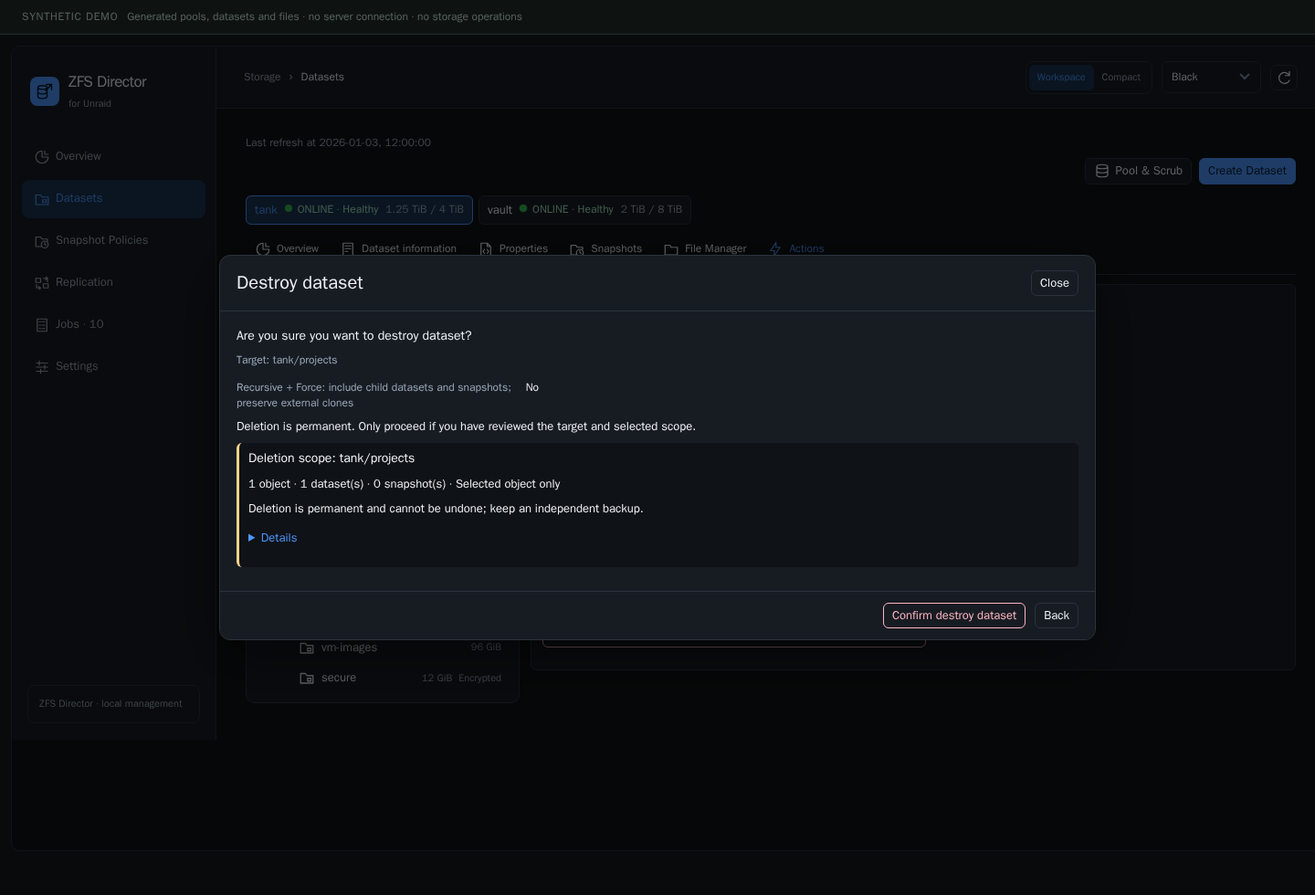
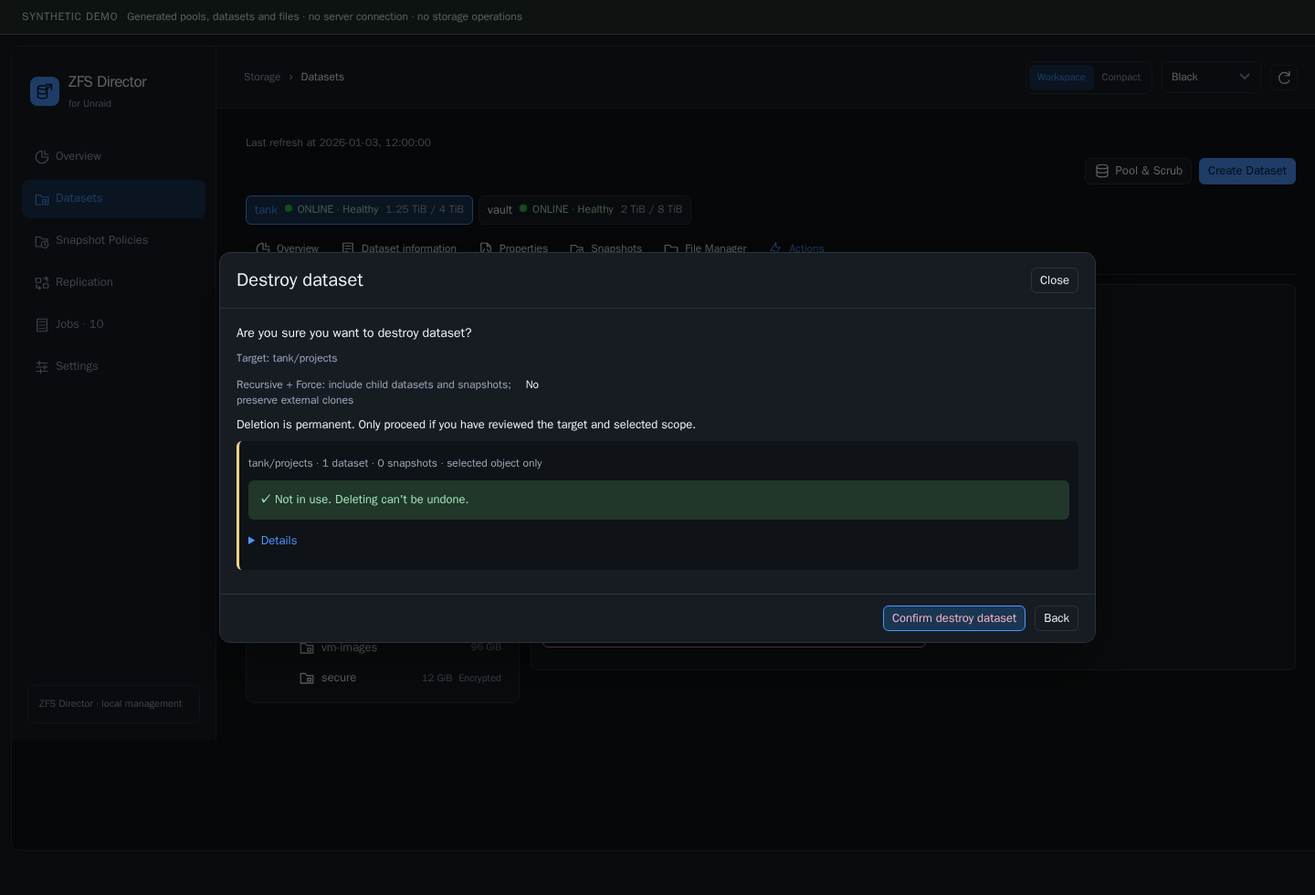
fix: one-line deletion verdict with the exact way to release a blocker (2026.11.07.2)
The deletion preview showed an SMB blocker next to "No blocking references
found in this scan", plus several standing hints, so it was unclear why
Delete stayed disabled.

- Show one verdict: who holds the dataset and where to release it (for
  example Shares, SMB Export: No), or "Not in use".
- While blocked, hide the confirmation and Delete; offer Check again.
- Drop the reassuring live-scan line and the standing Force note; objects,
  warnings and the raw dry run stay folded in Details.

Changed region(s): [[0.1875, 0.3673, 0.8125, 0.6122], [0.1875, 0.6735, 0.8125, 0.7347], [0.1875, 0.2755, 0.8125, 0.3367]]

diff --git a/src/frontend/ZFSMForms.js b/src/frontend/ZFSMForms.js
@@ -226,6 +226,17 @@
       state.policyIssue = blocked;
     }
     function acknowledgment(state, text) { checkbox(state, 'acknowledge', text || 'I understand this operation cannot be undone and confirm the target shown above.'); }
+    // A blocked deletion offers only a recheck; the confirmation controls return once it is free.
+    function showDestroyControls(state, free) {
+      const ack = state.fields.acknowledge?.closest('label'), submit = state.buttons?.querySelector('button[type="submit"]');
+      if (ack) ack.hidden = !free;
+      if (submit) submit.hidden = !free;
+      if (state.previewButton && state.buttons && state.modal) {
+        state.previewButton.textContent = 'Check again';
+        state.previewButton.hidden = free;
+        state.buttons.prepend(state.previewButton);
+      }
+    }
     function invalidatePreview(state) {
       clearConfirmation(state);
       state.preview = null;
@@ -233,6 +244,7 @@
       state.previewBusy = false;
       if (state.fields.acknowledge) state.fields.acknowledge.checked = false;
       if (state.previewBox) state.previewBox.replaceChildren(element('p', 'Load a fresh preview and review every listed object before confirming.'));
+      if (state.previewButton && state.previewButton.hidden) state.previewButton.hidden = false;
       enable(state);
     }
     function renderDestroyDiagnostics(host, diagnostics) {
@@ -245,32 +257,41 @@
         entry.textContent = row.dataset + ': ' + (reasons[row.kind] || row.kind) + ' · ' + row.mountpoint + ' · PID ' + row.pid + ' (' + row.command + ') · ' + row.namespace + (row.container ? ' · Container ' + (row.container_name ? row.container_name + ' (' + row.container.slice(0,12) + ')' : row.container.slice(0,12)) : '');
         panel.append(entry);
       }
-      if (diagnostics.blocked) panel.append(element('p', 'Release the reported application references or mounts through their owner, then load a fresh preview. No process is stopped and no mount is forcibly detached by this dialog.'));
-      else panel.append(element('p', 'No blocking references found in this scan. References can change; a dry run cannot guarantee execution.'));
+      if (diagnostics.blocked) panel.append(element('p', 'Force can\'t release busy mounts held by another Linux namespace. Stop these processes or unmount through their owner, then press Check again.'));
       for (const warning of diagnostics.warnings || []) panel.append(element('p', warning, 'zfsm-muted'));
       host.append(panel);
     }
     function renderDestroySummary(host, answer) {
       const summary = element('section', undefined, 'zfsm-destroy-summary');
-      summary.append(element('h4', 'Deletion scope: ' + answer.target));
       const objects = Array.isArray(answer.objects) ? answer.objects : null;
       const dependencies = Array.isArray(answer.dependencies) ? answer.dependencies : null;
       const typed = objects && objects.every(row => ['filesystem', 'volume', 'snapshot'].includes(row?.type));
       const datasets = typed ? objects.filter(row => row.type !== 'snapshot').length : null;
       const snapshots = typed ? objects.length - datasets : null;
-      summary.append(element('p', (objects
-        ? objects.length + ' object' + (objects.length === 1 ? '' : 's') + (typed ? ' · ' + datasets + ' dataset(s) · ' + snapshots + ' snapshot(s)' : ' · Object types: Unknown')
-        : 'Affected object count: Unknown') + ' · ' + (typeof answer.recursive === 'boolean' ? answer.recursive ? 'Recursive descendants included' : 'Selected object only' : 'Scope unknown — review raw dry-run output')));
-      // Problems stay visible; routine evidence is folded into Details.
+      const count = (n, word) => n + ' ' + word + (n === 1 ? '' : 's');
+      summary.append(element('p', answer.target + ' · ' + (typed ? count(datasets, 'dataset') + ' · ' + count(snapshots, 'snapshot') : objects ? count(objects.length, 'object') : 'object count unknown') + ' · ' + (typeof answer.recursive === 'boolean' ? answer.recursive ? 'recursive' : 'selected object only' : 'scope unknown'), 'zfsm-muted'));
       const services = Array.isArray(answer.service_blockers) ? answer.service_blockers : [];
       const busy = answer.diagnostics?.blocked === true;
+      // One verdict box: what holds the dataset and where to release it, or that it is free.
+      const verdict = element('section', undefined, answer.can_destroy === true ? 'zfsm-destroy-verdict zfsm-destroy-ok' : 'zfsm-destroy-verdict zfsm-destroy-services');
+      if (answer.can_destroy === true) verdict.append(element('p', '✓ Not in use. Deleting can\'t be undone.', 'zfsm-success'));
+      const names = {smb:'SMB share',nfs:'NFS export',docker:'Docker container',vm:'VM',additional_mount:'Additional mount',nested_mount:'Nested mount'};
+      const fixes = {smb:row => 'Open Shares → ' + row.name + ', set SMB Export to No', nfs:() => 'Open Shares and set NFS Export to No', docker:row => 'Stop Docker container "' + row.name + '" or remove this path from it', vm:row => 'Remove this disk from VM "' + row.name + '"', additional_mount:row => 'Unmount ' + row.path, nested_mount:row => 'Unmount ' + row.path};
+      for (const row of services) {
+        const named = row?.name && !['nfs','additional_mount','nested_mount'].includes(row.kind);
+        const who = (names[row?.kind] || 'Service reference') + (named ? ' "' + row.name + '"' : '');
+        const fix = fixes[row?.kind] && (named || !['smb','docker','vm'].includes(row.kind)) ? fixes[row.kind](row) : 'Release it through its owner';
+        verdict.append(element('p', '⛔ Can\'t delete: ' + who + ' uses ' + (row?.path || 'this dataset'), 'zfsm-error'), element('p', fix + ', then press Check again.', 'zfsm-error'));
+      }
+      if (busy) renderDestroyDiagnostics(verdict, answer.diagnostics);
+      if (answer.can_destroy !== true && !services.length && !busy) verdict.append(element('p', '⛔ Can\'t delete: ' + (dependencies && dependencies.length ? 'clones outside this scope depend on it' : 'ZFS did not approve this scope (holds or a failed dry run)') + '. See Details.', 'zfsm-error'));
+      summary.append(verdict);
       const details = element('details', undefined, 'zfsm-destroy-details');
       details.append(element('summary', 'Details'));
       function table(title, rows) {
-        if (rows && !rows.length && title !== 'Objects affected by deletion') return;
+        if (rows && !rows.length) return;
         details.append(element('strong', title));
         if (!rows) { details.append(element('p', 'Unknown — this preview did not report this information.', 'zfsm-muted')); return; }
-        if (!rows.length) { details.append(element('p', 'None reported.')); return; }
         const wrap = element('div', undefined, 'zfsm-table-wrap'), table = element('table', undefined, 'zfsm-table zfsm-readable-table');
         const head = element('thead'), headings = element('tr'), body = element('tbody');
         const columns = [['Object', 'name'], ['Type', 'type'], ['GUID', 'guid'], ['Mountpoint', 'mountpoint'], ['Encryption root', 'encryptionroot'], ['Origin', 'origin'], ['Holds', 'holds']];
@@ -289,23 +310,10 @@
         }
         table.append(head, body); wrap.append(table); details.append(wrap);
       }
-      if (services.length) {
-        const panel = element('section', undefined, 'zfsm-destroy-services');
-        panel.append(element('strong', 'Used by services'));
-        const names = {smb:'SMB share',nfs:'NFS export',docker:'Docker container',vm:'VM',additional_mount:'Additional mount',nested_mount:'Nested mount'};
-        for (const row of services) panel.append(element('p', (names[row?.kind] || 'Service reference') + (row?.name && !['nfs','additional_mount','nested_mount'].includes(row.kind) ? ' "' + row.name + '"' : '') + ' · ' + (row?.path || 'Unknown path'), 'zfsm-error'));
-        panel.append(element('p', 'Remove or stop these references through their owner (Shares, Docker or VMs), then load a fresh preview. Nothing was stopped or changed.'));
-        summary.append(panel);
-      }
-      if (busy) renderDestroyDiagnostics(summary, answer.diagnostics);
-      if (dependencies && dependencies.length) table('Clone dependencies — these can be outside the selected branch', dependencies);
-      if (answer.can_destroy !== true && !services.length && !busy) summary.append(element('p', 'Deletion blocked. The backend has not approved this scope; inspect dependencies, holds and the raw preview in Details.', 'zfsm-error'));
-      summary.append(element('p', 'Deletion is permanent and cannot be undone; keep an independent backup.', 'zfsm-danger'));
       table('Objects affected by deletion', objects);
-      if (!dependencies) table('Clone dependencies — these can be outside the selected branch', dependencies);
-      if (!busy) renderDestroyDiagnostics(details, answer.diagnostics);
+      table('Clone dependencies — these can be outside the selected branch', dependencies);
+      if (!busy && answer.diagnostics?.warnings?.length) renderDestroyDiagnostics(details, answer.diagnostics);
       details.append(element('strong', 'Raw ZFS dry-run'), element('pre', answer.preview || 'No usable preview'));
-      if (answer.can_destroy !== true) details.open = true;
       summary.append(details);
       host.append(summary);
     }
@@ -367,7 +375,8 @@
           renderDestroySummary(state.previewBox, answer);
         }
         state.preview = { token: answer.token, preview_id:answer.preview_id, choice, canProceed:canProceed&&(rollback||answer.can_destroy===true) };
-        note(state, 'Review the fresh server preview, then acknowledge to enable submission.', false);
+        state.result.textContent = ''; state.result.className = '';
+        if (['destroydataset','destroysnapshot'].includes(state.action)) showDestroyControls(state, state.preview.canProceed);
       } catch (error) {
         if (!current(state) || previewGeneration !== state.previewGeneration) return;
         state.preview = null;
@@ -413,7 +422,7 @@
       state.previewBox = element('section', undefined, 'zfsm-preview');
       state.previewBox.setAttribute('aria-label', 'Exact server preview');
       state.grid.append(state.previewBox);
-      acknowledgment(state, 'I reviewed the exact preview above and confirm this irreversible operation.');
+      acknowledgment(state, state.action === 'destroydataset' ? 'Delete ' + state.context.dataset + ' permanently' : 'I reviewed the exact preview above and confirm this irreversible operation.');
       invalidatePreview(state);
     }
     function createFields(state) {
@@ -631,8 +640,7 @@
           field(state, 'newname', 'New full dataset name', ctx.dataset, null, { required: true, maxLength: 768 });
           checkbox(state, 'force', 'Force unmount filesystems that must be unmounted during rename'); break;
         case 'destroydataset':
-          withPreview(state, 'force', 'Recursive + Force: include child datasets and snapshots; preserve external clones');
-          state.grid.append(element('p', 'Linux: Force (-f) cannot release busy filesystems or mounts held by another namespace. It does not stop processes, remove holds or destroy external clones.', 'zfsm-notice')); break;
+          withPreview(state, 'force', 'Recursive + Force: include child datasets and snapshots; preserve external clones'); break;
         case 'unlockdataset': if(ctx.node.keystatus==='available')state.grid.append(element('p','Key already loaded. Restore only saved mount GUIDs; changed identities remain blocked.'));else field(state, 'passphrase', 'Dataset passphrase', '', null, { type: 'password', required: true });state.grid.append(element('p','Only previously mounted filesystems recorded by Director are restored. Without a saved mount journal, only the key is loaded.','zfsm-notice'));break;
         case 'lockdataset': {const affected=[];function walk(n){if(n.encryptionroot===ctx.dataset)affected.push(n.name+' — mounted: '+(n.mounted||'unknown'));for(const child of Object.values(n.child||{}))walk(child);}walk(ctx.node);state.grid.append(element('p','Encryption root: '+ctx.dataset+'; dependent filesystems become inaccessible. Shares, Docker and VM usage are not verified.','zfsm-danger'));const list=element('ul');for(const text of affected)list.append(element('li',text));state.grid.append(list);acknowledgment(state, 'I confirm unmounting this encryption root and unloading its key.');break;}
         case 'promotedataset': reviewedControls(state); break;
@@ -978,7 +986,7 @@
         const buttons = element('div', undefined, 'zfsm-buttons');
         state.buttons = buttons;
         if(action!=='editdatasetproperty'){
-          const submit = element('button',state.modal?'Review':titles[action] === 'Settings' ? 'Save settings' : titles[action]); submit.type = 'submit';
+          const submit = element('button',state.modal?(action==='destroydataset'?'Delete':'Review'):titles[action] === 'Settings' ? 'Save settings' : titles[action]); submit.type = 'submit';
           if (destructive.has(action)) submit.className = 'zfsm-danger';buttons.append(submit);
         }
         if(state.modal){buttons.classList.add('zfsm-action-footer');const close=element('button','Close');close.type='button';close.dataset.closeAction='';close.addEventListener('click',()=>{if(current(state))onClose();});buttons.append(close);}

diff --git a/src/frontend/ZFSMWorkspace.css b/src/frontend/ZFSMWorkspace.css
@@ -120,6 +120,10 @@
 #zfsm-workspace .zfsm-result-heading {display:block;margin-bottom:4px}
 #zfsm-workspace .zfsm-result-icon {margin-right:6px}
 #zfsm-workspace .zfsm-error,#zfsm-workspace .zfsm-notice[data-severity="error"] {background:var(--zfsm-error-bg);color:var(--zfsm-error)}
+#zfsm-workspace .zfsm-destroy-verdict {margin:10px 0;padding:10px 12px;border-radius:6px;background:var(--zfsm-error-bg);color:var(--zfsm-error)}
+#zfsm-workspace .zfsm-destroy-verdict.zfsm-destroy-ok {background:var(--zfsm-good-bg);color:var(--zfsm-good)}
+#zfsm-workspace .zfsm-destroy-verdict p {margin:2px 0;padding:0;background:none;color:inherit}
+#zfsm-workspace .zfsm-destroy-verdict p:first-child {font-weight:600}
 #zfsm-workspace .zfsm-preview {border-left:3px solid var(--zfsm-warning)}
 #zfsm-workspace .zfsm-form {margin:0;min-width:0;padding:0;color:var(--zfsm-text);container-type:inline-size}
 #zfsm-workspace .zfsm-form:not(.zfsm-create-form) {max-width:1040px}

diff --git a/tests/installer.test.py b/tests/installer.test.py
@@ -44,7 +44,7 @@ class InstallerTests(unittest.TestCase):
     def removal_fixture(self, anchor):
         output = anchor / 'build'
         subprocess.run(['python3', str(ROOT / 'tools/build-installer.py'), '--output', str(output),
-                        '--release-base-url', 'https://example.invalid/releases/2026.11.07.1'],
+                        '--release-base-url', 'https://example.invalid/releases/2026.11.07.2'],
                        cwd=ROOT, check=True, capture_output=True)
         (anchor / 'live/scripts').mkdir(parents=True)
         (anchor / 'live/scripts/zfsm-worker.php').write_text('synthetic worker boundary')
@@ -156,12 +156,12 @@ class InstallerTests(unittest.TestCase):
         with tempfile.TemporaryDirectory(dir=STAND_TMP) as tmp:
             output = pathlib.Path(tmp) / 'build'
             subprocess.run(['python3', str(ROOT / 'tools/build-installer.py'), '--output', str(output),
-                            '--release-base-url', 'https://example.invalid/releases/2026.11.07.1'],
+                            '--release-base-url', 'https://example.invalid/releases/2026.11.07.2'],
                            cwd=ROOT, check=True, capture_output=True)
             self.assertTrue((output / 'zfs-director.plg').is_file(), 'The public plugin URL must use ZFS Director branding')
-            with zipfile.ZipFile(output / 'ZFS-Director-2026.11.07.1-Unraid.zip') as bundle:
+            with zipfile.ZipFile(output / 'ZFS-Director-2026.11.07.2-Unraid.zip') as bundle:
                 guide = bundle.read('INSTALL.txt').decode()
-                self.assertIn('https://example.invalid/releases/2026.11.07.1/zfs-director.plg', guide)
+                self.assertIn('https://example.invalid/releases/2026.11.07.2/zfs-director.plg', guide)
                 self.assertNotIn('explicit acceptance', guide)
                 self.assertNotIn('Copy its TWO files', guide)
                 self.assertNotIn('/boot/config/plugins/zfs.master.ui/', guide)
@@ -229,17 +229,17 @@ class InstallerTests(unittest.TestCase):
                 output = pathlib.Path(folder) / 'build'
                 args = ['python3', str(ROOT / 'tools/build-installer.py'), '--output', str(output)]
                 if public:
-                    args += ['--release-base-url', 'https://example.invalid/releases/2026.11.07.1']
+                    args += ['--release-base-url', 'https://example.invalid/releases/2026.11.07.2']
                 subprocess.run(args, cwd=ROOT, check=True, capture_output=True)
                 plugin_name = 'zfs-director.plg' if public else 'zfs.master.ui.local.plg'
-                bundle = output / 'ZFS-Director-2026.11.07.1-Unraid.zip'
+                bundle = output / 'ZFS-Director-2026.11.07.2-Unraid.zip'
                 self.assertTrue(bundle.is_file(), 'Users need a ready manual-install ZIP')
                 with zipfile.ZipFile(bundle) as archive:
                     self.assertIsNone(archive.testzip())
                     names = set(archive.namelist())
                     expected = {'INSTALL.txt', 'INSTALL.ru.txt', 'INSTALLATION.md', 'SHA256SUMS',
                                 'zfs-director/' + plugin_name,
-                                'zfs-director/zfs-director-2026.11.07.1.tgz'}
+                                'zfs-director/zfs-director-2026.11.07.2.tgz'}
                     if public:
                         expected.update(['legacy-local/zfs.master.ui.local.plg', 'legacy-public/zfs.master.ui.plg'])
                     self.assertEqual(names, expected, 'Bundle must not contain source, settings or Jobs')
@@ -252,14 +252,14 @@ class InstallerTests(unittest.TestCase):
                         digest, name = line.split('  ', 1)
                         self.assertEqual(digest, hashlib.sha256(archive.read(name)).hexdigest())
                     self.assertEqual(len(archive.read('SHA256SUMS').splitlines()), len(expected) - 1)
-                    for name in (plugin_name, 'zfs-director-2026.11.07.1.tgz'):
+                    for name in (plugin_name, 'zfs-director-2026.11.07.2.tgz'):
                         self.assertEqual(archive.read('zfs-director/' + name), (output / name).read_bytes())
                     for name in ('INSTALL.txt', 'INSTALL.ru.txt'):
                         guide = archive.read(name).decode()
                         self.assertIn('Plugins', guide)
                         self.assertIn('Install Plugin', guide)
                         self.assertNotIn('manual activation is required', guide)
-                        if public: self.assertIn('https://example.invalid/releases/2026.11.07.1/zfs-director.plg', guide)
+                        if public: self.assertIn('https://example.invalid/releases/2026.11.07.2/zfs-director.plg', guide)
                         self.assertNotRegex(guide, r'(?im)^\s*(?:npm |npx |python3 |git clone)')
                     # Reproduce only the documented file handoff in a private stand.
                     # No installation code is executed and no host path is used.
@@ -283,7 +283,7 @@ class InstallerTests(unittest.TestCase):
         with tempfile.TemporaryDirectory(dir=STAND_TMP) as folder:
             root = pathlib.Path(folder)
             out = root / 'build'
-            subprocess.run(['python3', str(ROOT / 'tools/build-installer.py'), '--output', str(out), '--release-base-url', 'https://example.invalid/releases/2026.11.07.1'], check=True, capture_output=True)
+            subprocess.run(['python3', str(ROOT / 'tools/build-installer.py'), '--output', str(out), '--release-base-url', 'https://example.invalid/releases/2026.11.07.2'], check=True, capture_output=True)
             first = ET.parse(out / 'zfs-director.plg').findall('FILE')[0]
             self.assertNotIn('Name', first.attrib)
             gate = first.findtext('INLINE')
@@ -316,7 +316,7 @@ class InstallerTests(unittest.TestCase):
     def test_stable_plugin_url_base_drives_update_checks_but_not_package_pinning(self):
         # A tag-pinned pluginURL makes Plugin Manager poll the same release forever.
         builder = ROOT / 'tools/build-installer.py'
-        base = 'https://example.invalid/releases/2026.11.07.1'
+        base = 'https://example.invalid/releases/2026.11.07.2'
         stable = 'https://example.invalid/stable/main'
         with tempfile.TemporaryDirectory(dir=STAND_TMP) as tmp:
             out = pathlib.Path(tmp) / 'build'
@@ -325,7 +325,7 @@ class InstallerTests(unittest.TestCase):
             for name in ['zfs-director.plg', 'zfs.master.ui.plg', 'zfs.master.ui.local.plg']:
                 plugin = ET.parse(out / name).getroot()
                 self.assertEqual(plugin.attrib['pluginURL'], stable + '/' + name)
-                self.assertEqual(plugin.findtext('FILE[@Name]/URL'), base + '/zfs-director-2026.11.07.1.tgz')
+                self.assertEqual(plugin.findtext('FILE[@Name]/URL'), base + '/zfs-director-2026.11.07.2.tgz')
             result = subprocess.run(['python3', str(builder), '--output', str(pathlib.Path(tmp) / 'local'),
                                      '--plugin-url-base', stable], cwd=ROOT, capture_output=True, text=True)
             self.assertEqual(result.returncode, 2)
@@ -335,9 +335,9 @@ class InstallerTests(unittest.TestCase):
         with tempfile.TemporaryDirectory(dir=STAND_TMP) as tmp:
             out = pathlib.Path(tmp) / 'build'
             subprocess.run(['python3', str(ROOT / 'tools/build-installer.py'), '--output', str(out),
-                            '--release-base-url', 'https://example.invalid/releases/2026.11.07.1'],
+                            '--release-base-url', 'https://example.invalid/releases/2026.11.07.2'],
                            cwd=ROOT, check=True, capture_output=True)
-            with zipfile.ZipFile(out / 'ZFS-Director-2026.11.07.1-Unraid.zip') as zipped:
+            with zipfile.ZipFile(out / 'ZFS-Director-2026.11.07.2-Unraid.zip') as zipped:
                 self.assertIn('legacy-local/zfs.master.ui.local.plg', zipped.namelist(), 'The public ZIP must provide an upgrade for existing .local registrations')
                 legacy = ET.fromstring(zipped.read('legacy-local/zfs.master.ui.local.plg'))
                 public = ET.fromstring(zipped.read('zfs-director/zfs-director.plg'))
@@ -427,7 +427,7 @@ class InstallerTests(unittest.TestCase):
         # A missing/wrong URL, an unpinned package or nondeterministic build
         # must fail before these artifacts are offered to a plugin manager.
         builder = ROOT / 'tools/build-installer.py'
-        base = 'https://downloads.example.invalid/zfs-director/2026.11.07.1'
+        base = 'https://downloads.example.invalid/zfs-director/2026.11.07.2'
         with tempfile.TemporaryDirectory(dir=STAND_TMP) as tmp:
             outputs = [pathlib.Path(tmp) / name for name in ['first', 'second']]
             for output in outputs:
@@ -436,7 +436,7 @@ class InstallerTests(unittest.TestCase):
                 self.assertEqual(result.returncode, 0, result.stderr)
             first, second = outputs
             self.assertEqual(sorted(p.name for p in first.iterdir()),
-                             ['SHA256SUMS', 'ZFS-Director-2026.11.07.1-Unraid.zip', 'install.sh', 'zfs-director-2026.11.07.1.tgz', 'zfs-director.plg', 'zfs.master.ui.local.plg', 'zfs.master.ui.plg'])
+                             ['SHA256SUMS', 'ZFS-Director-2026.11.07.2-Unraid.zip', 'install.sh', 'zfs-director-2026.11.07.2.tgz', 'zfs-director.plg', 'zfs.master.ui.local.plg', 'zfs.master.ui.plg'])
             for path in first.iterdir():
                 self.assertEqual(path.read_bytes(), (second / path.name).read_bytes(), path.name)
             for line in (first / 'SHA256SUMS').read_text().splitlines():
@@ -444,12 +444,12 @@ class InstallerTests(unittest.TestCase):
                 self.assertEqual(digest, hashlib.sha256((first / name).read_bytes()).hexdigest())
             plugin = ET.parse(first / 'zfs-director.plg').getroot()
             self.assertEqual(plugin.attrib['pluginURL'], base + '/zfs-director.plg')
-            self.assertEqual(plugin.attrib['version'], '2026.11.07.1')
+            self.assertEqual(plugin.attrib['version'], '2026.11.07.2')
             package = plugin.find('FILE[@Name]')
-            self.assertEqual(package.attrib['Name'], '/boot/config/plugins/zfs.master.ui/zfs-director-2026.11.07.1.tgz')
-            self.assertEqual(package.findtext('URL'), base + '/zfs-director-2026.11.07.1.tgz')
+            self.assertEqual(package.attrib['Name'], '/boot/config/plugins/zfs.master.ui/zfs-director-2026.11.07.2.tgz')
+            self.assertEqual(package.findtext('URL'), base + '/zfs-director-2026.11.07.2.tgz')
             self.assertIsNone(package.find('LOCAL'))
-            archive = first / 'zfs-director-2026.11.07.1.tgz'
+            archive = first / 'zfs-director-2026.11.07.2.tgz'
             self.assertEqual(package.findtext('MD5'), hashlib.md5(archive.read_bytes()).hexdigest())
             with tarfile.open(archive) as tar:
                 release = json.load(tar.extractfile('zfs.master.ui/release.json'))

diff --git a/tools/build-installer.py b/tools/build-installer.py
@@ -17,7 +17,7 @@ import zipfile
 from urllib.parse import urlsplit
 
 ROOT = pathlib.Path(__file__).resolve().parents[1]
-VERSION = '2026.11.07.1'
+VERSION = '2026.11.07.2'
 STOP_MARKER = r'''use strict;
 use warnings;
 use Fcntl qw(:DEFAULT :mode);
@@ -184,7 +184,7 @@ def build(output, release_base=None, plugin_url_base=None):
     plugin_url = update_base + '/' + plugin_name if release_base else 'file:///boot/config/plugins/zfs.master.ui/' + plugin_name
     plugin = ET.Element('PLUGIN', name='zfs.master.ui', author='d1-m4ss', version=VERSION, min='7.3.3',
                         icon='database', launch='Main/ZFSDirector', pluginURL=plugin_url)
-    ET.SubElement(plugin, 'CHANGES').text = f'### {VERSION}\nFix: a blocked deletion now names the SMB share, NFS export, Docker container, VM or mount that holds the dataset, and the deletion preview shows these references before confirmation. The preview is compact when nothing blocks it; full evidence stays under Details.\n\nZFS Director: based on ZFS Master by Carlos Rodriguez (IkerSaint). GPL-2.0-or-later. Settings and recovery state retain their namespace. Background services start automatically after successful validation. Uninstall stops Director services and preserves settings, Jobs and recovery data.'
+    ET.SubElement(plugin, 'CHANGES').text = f'### {VERSION}\nDeletion preview shows one verdict: what holds the dataset and how to release it (for example Shares, SMB Export: No), or that it is not in use. Confirmation appears only when the dataset is free; full evidence stays under Details.\n\nZFS Director: based on ZFS Master by Carlos Rodriguez (IkerSaint). GPL-2.0-or-later. Settings and recovery state retain their namespace. Background services start automatically after successful validation. Uninstall stops Director services and preserves settings, Jobs and recovery data.'
     package = ET.SubElement(plugin, 'FILE', Name=f'/boot/config/plugins/zfs.master.ui/{archive.name}')
     ET.SubElement(package, 'URL' if release_base else 'LOCAL').text = release_base + '/' + archive.name if release_base else package.attrib['Name']
     ET.SubElement(package, 'MD5').text = hashlib.md5(archive.read_bytes()).hexdigest()

diff --git a/README.ru.md b/README.ru.md
@@ -8,7 +8,7 @@
 - **[Интеграция Sanoid](#политики-sanoid):** задайте время создания snapshots, хранение и безопасное удаление старых копий; просматривайте External и Managed policies.
 - **[Интеграция Syncoid](#репликация-syncoid):** настройте локальную или SSH-репликацию через Source → Destination → Schedule → Review; progress и проверенный результат доступны в Jobs.
 
-**[Скачать установочный ZIP для Unraid](https://github.com/d1-m4ss/zfs-director/releases/download/2026.11.07.1/ZFS-Director-2026.11.07.1-Unraid.zip)** · [SHA256SUMS](https://github.com/d1-m4ss/zfs-director/releases/download/2026.11.07.1/SHA256SUMS) · [Установка и rollback](docs/INSTALLATION.md)
+**[Скачать установочный ZIP для Unraid](https://github.com/d1-m4ss/zfs-director/releases/download/2026.11.07.2/ZFS-Director-2026.11.07.2-Unraid.zip)** · [SHA256SUMS](https://github.com/d1-m4ss/zfs-director/releases/download/2026.11.07.2/SHA256SUMS) · [Установка и rollback](docs/INSTALLATION.md)
 
 **Версия 2026.10.22.1** проверена на физическом сервере Unraid 7.3.3 с OpenZFS 2.4.4 и в изолированной VM. Установка, обновления, ZFS-операции и GUI описаны в [результатах проверки](docs/TESTING.md#rc1-verification-2026-10-22).
 
@@ -45,7 +45,7 @@ https://raw.githubusercontent.com/d1-m4ss/zfs-director/main/plugin/zfs-director.
 
 Новые версии появляются в **Plugins → Check for Updates** и в Community Applications. Ставили плагин по старому URL релиза (`…/releases/download/…/zfs-director.plg`)? Один раз переустановите его по URL выше с **Force Install**, чтобы проверка обновлений видела новые релизы.
 
-Также доступны [ZIP и контрольные суммы](https://github.com/d1-m4ss/zfs-director/releases/tag/2026.11.07.1). Подробнее — в [инструкции установки, обновления и rollback](docs/INSTALLATION.md).
+Также доступны [ZIP и контрольные суммы](https://github.com/d1-m4ss/zfs-director/releases/tag/2026.11.07.2). Подробнее — в [инструкции установки, обновления и rollback](docs/INSTALLATION.md).
 
 ## Snapshot File Manager
 

diff --git a/README.md b/README.md
@@ -8,7 +8,7 @@ Manage ZFS in Unraid, browse snapshots in a **Snapshot File Manager**, automate 
 - **[Sanoid integration](#sanoid-snapshot-policies):** choose snapshot creation times, retention and protected removal of old snapshots; review External and Managed policies.
 - **[Syncoid integration](#syncoid-replication):** create local or SSH replication jobs through Source → Destination → Schedule → Review, with progress and verified results in Jobs.
 
-**[Download the Unraid installation ZIP](https://github.com/d1-m4ss/zfs-director/releases/download/2026.11.07.1/ZFS-Director-2026.11.07.1-Unraid.zip)** · [SHA256SUMS](https://github.com/d1-m4ss/zfs-director/releases/download/2026.11.07.1/SHA256SUMS) · [Installation and rollback](docs/INSTALLATION.md)
+**[Download the Unraid installation ZIP](https://github.com/d1-m4ss/zfs-director/releases/download/2026.11.07.2/ZFS-Director-2026.11.07.2-Unraid.zip)** · [SHA256SUMS](https://github.com/d1-m4ss/zfs-director/releases/download/2026.11.07.2/SHA256SUMS) · [Installation and rollback](docs/INSTALLATION.md)
 
 **Version 2026.10.22.1** was tested on a physical Unraid 7.3.3 server with OpenZFS 2.4.4 and in an isolated VM. See the [verification results](docs/TESTING.md#rc1-verification-2026-10-22) for installation, upgrades, ZFS operations and GUI checks.
 
@@ -45,7 +45,7 @@ The installer downloads and verifies the ready-made package, creates its own sto
 
 New versions appear in **Plugins → Check for Updates** and in Community Applications. Installed from an older release URL (`…/releases/download/…/zfs-director.plg`)? Reinstall once from the URL above with **Force Install** so update checks follow new releases.
 
-The [ZIP and checksums](https://github.com/d1-m4ss/zfs-director/releases/tag/2026.11.07.1) are also available. See [installation, upgrades and rollback](docs/INSTALLATION.md).
+The [ZIP and checksums](https://github.com/d1-m4ss/zfs-director/releases/tag/2026.11.07.2) are also available. See [installation, upgrades and rollback](docs/INSTALLATION.md).
 
 ## Snapshot File Manager
 

diff --git a/docs/DEVELOPMENT.md b/docs/DEVELOPMENT.md
@@ -8,7 +8,7 @@ The package builder supports **local evaluation and an explicitly configured pub
 
 ```sh
 python3 tools/build-installer.py --output dist/local
-RELEASE_BASE_URL='https://github.com/d1-m4ss/zfs-director/releases/download/2026.11.07.1'
+RELEASE_BASE_URL='https://github.com/d1-m4ss/zfs-director/releases/download/2026.11.07.2'
 python3 tools/build-installer.py --output dist/release --release-base-url "$RELEASE_BASE_URL" \
   --plugin-url-base https://raw.githubusercontent.com/d1-m4ss/zfs-director/main/plugin
 ```
@@ -47,6 +47,6 @@ The preview uses the real frontend with a read-only synthetic response adapter. 
 
 ## Manual-install ZIP
 
-Every build also produces `ZFS-Director-2026.11.07.1-Unraid.zip`. It contains the matching PLG/TGZ pair, two short installation guides, the full installation guide and an internal SHA-256 manifest. No source tree, settings, Jobs or datasets are included. Release mode places `zfs-director.plg` in `zfs-director` and includes the compatibility definitions under `legacy-public` and `legacy-local` for existing local registrations; all use the common TGZ. Local mode contains only `zfs.master.ui.local.plg`. Never mix assets from different builds.
+Every build also produces `ZFS-Director-2026.11.07.2-Unraid.zip`. It contains the matching PLG/TGZ pair, two short installation guides, the full installation guide and an internal SHA-256 manifest. No source tree, settings, Jobs or datasets are included. Release mode places `zfs-director.plg` in `zfs-director` and includes the compatibility definitions under `legacy-public` and `legacy-local` for existing local registrations; all use the common TGZ. Local mode contains only `zfs.master.ui.local.plg`. Never mix assets from different builds.
 
 ZIP member names, timestamps and modes are deterministic. Publish the ZIP and external `SHA256SUMS` together with the matching public PLG, compatibility PLG and TGZ release assets. The ZIP is the primary download for manual installation; GitHub's source-code archives are for development.

diff --git a/docs/INSTALLATION.md b/docs/INSTALLATION.md
@@ -1,6 +1,6 @@
 # Install ZFS Director in Unraid
 
-Version 2026.11.07.1 targets Unraid 7.3.3 / OpenZFS 2.4.4. No source build, developer tools, terminal activation or manual state-directory creation is required.
+Version 2026.11.07.2 targets Unraid 7.3.3 / OpenZFS 2.4.4. No source build, developer tools, terminal activation or manual state-directory creation is required.
 
 ## Install
 
@@ -22,7 +22,7 @@ Existing settings, Jobs, recovery files and schedules are retained. If the insta
 
 ## ZIP download
 
-The release also provides a [ready-made ZIP](https://github.com/d1-m4ss/zfs-director/releases/download/2026.11.07.1/ZFS-Director-2026.11.07.1-Unraid.zip) and [SHA256SUMS](https://github.com/d1-m4ss/zfs-director/releases/download/2026.11.07.1/SHA256SUMS), containing matching PLG/TGZ files and short English/Russian guides. The plugin URL above is the normal installation method.
+The release also provides a [ready-made ZIP](https://github.com/d1-m4ss/zfs-director/releases/download/2026.11.07.2/ZFS-Director-2026.11.07.2-Unraid.zip) and [SHA256SUMS](https://github.com/d1-m4ss/zfs-director/releases/download/2026.11.07.2/SHA256SUMS), containing matching PLG/TGZ files and short English/Russian guides. The plugin URL above is the normal installation method.
 
 For local PLG selection, extract the ZIP and copy `zfs-director/zfs-director.plg` to the flash drive's existing `config/plugins` folder. Select that file in **Plugins → Install Plugin**. The public PLG downloads its matching TGZ itself. You do not need to create a separate plugin directory or unpack the TGZ into WebGUI.
 

diff --git a/src/README.md b/src/README.md
@@ -1,5 +1,5 @@
 **ZFS Director**
 
-Manage ZFS datasets, snapshots, file restores, snapshot policies and replication in Unraid. Version 2026.11.07.1.
+Manage ZFS datasets, snapshots, file restores, snapshot policies and replication in Unraid. Version 2026.11.07.2.
 
 Derived from ZFS Master by Carlos Rodriguez (IkerSaint), copyright 2021, with further adaptations credited in NOTICE.md. GPL-2.0-or-later; no warranty. The legacy plugin ID is zfs.master.ui. See the repository README for requirements, safety boundaries, build instructions and known limitations.
